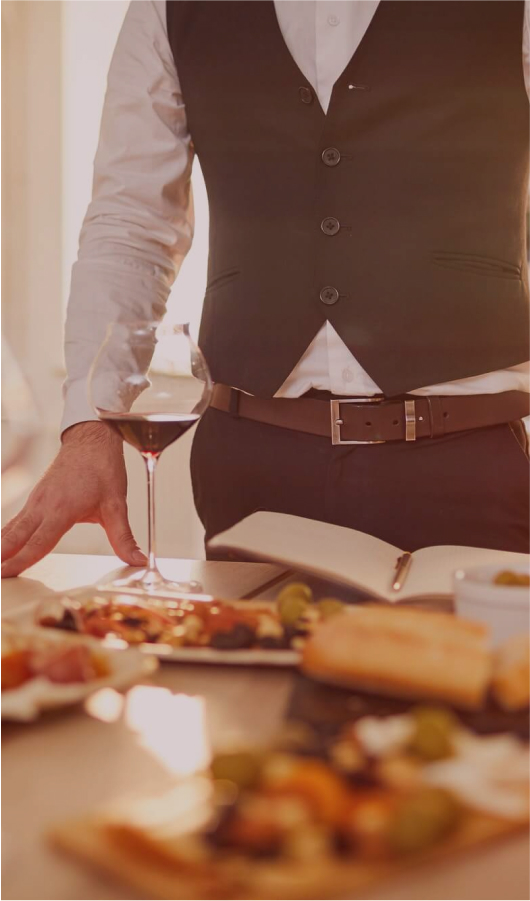
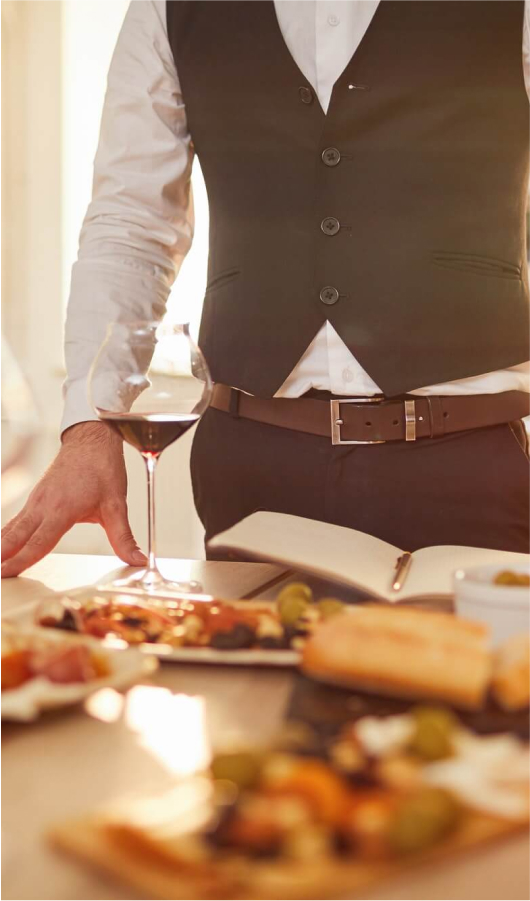
wine-pg

diff --git a/js/script.js b/js/script.js
@@ -50,7 +50,7 @@ if (document.querySelector(".selection")) {
   });
 }
 
-// STORE TEST
+// STORE TEST TODO: Delete
 if (document.querySelector(".store")) {
   const storeContainer = document.querySelector(".store .wines-container");
 
@@ -85,4 +85,21 @@ goTop.addEventListener("click", () => {
     top: 0,
     behavior: "smooth",
   });
+});
+
+// Change Wines Color TESTE TODO: Delete
+const tintoButton = document.querySelector(".tinto");
+const brancoButton = document.querySelector(".branco");
+const roseButton = document.querySelector(".rose");
+
+tintoButton.addEventListener("click", () => {
+  document.documentElement.style.setProperty("--wine-color", "#470C13");
+});
+
+brancoButton.addEventListener("click", () => {
+  document.documentElement.style.setProperty("--wine-color", "#BE8F36");
+});
+
+roseButton.addEventListener("click", () => {
+  document.documentElement.style.setProperty("--wine-color", "#B91A3F");
 });

diff --git a/css/page-wine/note-description.css b/css/page-wine/note-description.css
@@ -91,8 +91,20 @@
   left: 0;
 }
 
-.note-description .description-wine-img {
+.note-description .description-wine-img img {
   z-index: -2;
+  position: relative;
+}
+
+.note-description .description-wine-img img::after {
+  content: "";
+  position: absolute;
+  top: 0;
+  left: 0;
+  width: 100%;
+  height: 100%;
+  background-color: var(--wine-color);
+  opacity: 0.1;
 }
 
 .note-description .quote-description {

diff --git a/css/page-wine/pairing.css b/css/page-wine/pairing.css
@@ -11,6 +11,21 @@
   justify-self: flex-end;
 }
 
+.pairing .pairing-img img {
+  position: relative;
+}
+
+.pairing .pairing-img img::after {
+  content: "";
+  position: absolute;
+  top: 0;
+  left: 0;
+  width: 100%;
+  height: 100%;
+  background-color: var(--wine-color);
+  opacity: 0.1;
+}
+
 .pairing .pairing-text {
   display: flex;
   flex-direction: column;

diff --git a/wine.html b/wine.html
@@ -20,6 +20,11 @@
     </style>
   </head>
   <body class="page-wine">
+    <div class="TESTE-BUTAO">
+      <button class="tinto">Tinto</button>
+      <button class="branco">Branco</button>
+      <button class="rose">Rose</button>
+    </div>
     <header
       class="header"
       style="position: relative; background-color: #212121"
